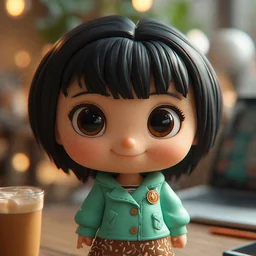
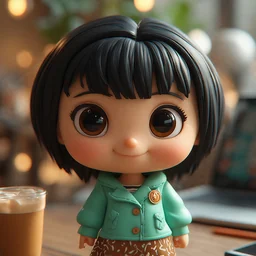
fix: kelopak kedip figur seukuran mata & warna kulit natural
Claude-Session: https://claude.ai/code/session_01GFzcKUwh4fVk21KaSCznkK

diff --git a/src/data/agents.ts b/src/data/agents.ts
@@ -21,21 +21,21 @@ export type Agent = {
 };
 
 export const agents: Agent[] = [
-  { id: "caption-writer", name: "Tara", role: "AI Caption Writer", blurb: "Caption feed yang hangat, jujur, dan sesuai voice brand Anda.", pillar: "AI Marketing", active: true, scene: { setting: "Kafe sore hari" }, ratio: 0.7122, eyes: [{ x: 31.77, y: 39.37, w: 13.4, h: 8.6, skin: "#c19068" }, { x: 70.47, y: 39.93, w: 13.4, h: 8.6, skin: "#c19068" }], sceneImage: true, sceneEyes: [{ x: 34.5, y: 44.5, w: 12.2, h: 11, skin: "#c19068" }, { x: 58.8, y: 45, w: 12.2, h: 11, skin: "#c19068" }] },
-  { id: "reel-scripter", name: "Raka", role: "AI Reel Scripter", blurb: "Naskah Reels & TikTok per detik, lengkap dengan shot list.", pillar: "AI Marketing", active: true, scene: { setting: "Teras villa tepi pantai" }, ratio: 0.5578, eyes: [{ x: 32.11, y: 34.69, w: 14.39, h: 8.32, skin: "#ae775b" }, { x: 68.71, y: 34.69, w: 14.39, h: 8.32, skin: "#ae775b" }], sceneImage: true, sceneEyes: [{ x: 41.3, y: 35.8, w: 11, h: 11.4, skin: "#ae775b" }, { x: 60.6, y: 35.8, w: 11, h: 11.4, skin: "#ae775b" }] },
-  { id: "story-writer", name: "Sekar", role: "AI Story Writer", blurb: "Set Stories 3 frame untuk promo, event, dan behind the scene.", pillar: "AI Marketing", active: true, scene: { setting: "Kamar villa Bali" }, ratio: 0.7622, eyes: [{ x: 31.2, y: 34.2, w: 10.4, h: 7.92, skin: "#b47b5a" }, { x: 57.51, y: 34.32, w: 9.02, h: 7.76, skin: "#b47b5a" }], sceneImage: true, sceneEyes: [{ x: 38, y: 36.5, w: 9.8, h: 9.8, skin: "#b47b5a" }, { x: 55.1, y: 36.6, w: 8.5, h: 9.6, skin: "#b47b5a" }] },
-  { id: "listing-writer", name: "Bayu", role: "AI OTA Listing Writer", blurb: "Deskripsi produk, marketplace, OTA & website yang akurat dan mudah ditemukan.", pillar: "AI Marketing", active: true, scene: { setting: "Teras villa & kolam" }, ratio: 0.4722, eyes: [{ x: 32.7, y: 32.57, w: 14.78, h: 6.51, skin: "#c59273" }, { x: 65.56, y: 33.02, w: 13.14, h: 6.2, skin: "#c59273" }], sceneImage: true, sceneEyes: [{ x: 44.2, y: 34.4, w: 9, h: 8.4, skin: "#c59273" }, { x: 58, y: 34.8, w: 8, h: 8, skin: "#c59273" }] },
-  { id: "review-responder", name: "Laras", role: "AI Review Responder", blurb: "Draft balasan review Google & OTA. Review negatif ke owner.", pillar: "AI Marketing", active: true, scene: { setting: "Meja resepsionis hotel" }, ratio: 0.6856, eyes: [{ x: 23.17, y: 38.87, w: 9.72, h: 6.03, skin: "#d39c78" }, { x: 49.84, y: 38.87, w: 9.25, h: 5.95, skin: "#d39c78" }], sceneImage: true, sceneEyes: [{ x: 43.6, y: 42.3, w: 8.4, h: 7.6, skin: "#d39c78" }, { x: 59.5, y: 42.3, w: 8, h: 7.5, skin: "#d39c78" }] },
-  { id: "calendar-planner", name: "Dimas", role: "AI Calendar Planner", blurb: "Kalender konten bulanan: libur nasional, Ramadan, Nyepi, musim liburan.", pillar: "AI Marketing", active: true, scene: { setting: "Meja perencanaan" }, ratio: 0.5667, eyes: [{ x: 34.61, y: 34.86, w: 15.17, h: 8.17, skin: "#d5a27e" }, { x: 68.7, y: 34.23, w: 13.65, h: 7.74, skin: "#d5a27e" }], sceneImage: true, sceneEyes: [{ x: 40, y: 39, w: 10, h: 9.5, skin: "#d5a27e" }, { x: 55.5, y: 38.5, w: 9, h: 9, skin: "#d5a27e" }] },
-  { id: "campaign-planner", name: "Ayu", role: "AI Campaign Planner", blurb: "Rencana kampanye musiman: Lebaran, Nataru, long weekend.", pillar: "AI Marketing", active: true, scene: { setting: "Ruang rapat kampanye" }, ratio: 1.0444, eyes: [{ x: 37.57, y: 27.59, w: 6.93, h: 7.24, skin: "#b68b6e" }, { x: 53.27, y: 27.59, w: 6.93, h: 7.24, skin: "#b68b6e" }], sceneImage: true, sceneEyes: [{ x: 44.5, y: 38.5, w: 8, h: 8, skin: "#b68b6e" }, { x: 57, y: 38.5, w: 8, h: 8, skin: "#b68b6e" }] },
-  { id: "localizer", name: "Nara", role: "AI Localizer", blurb: "Konten bilingual ID ⇄ EN yang terasa natural, bukan terjemahan kaku.", pillar: "AI Marketing", active: true, scene: { setting: "Lobi hotel butik" }, ratio: 0.6211, eyes: [{ x: 41.39, y: 34.1, w: 10.75, h: 5.64, skin: "#c69273" }, { x: 67.36, y: 34.1, w: 9.55, h: 5.57, skin: "#c69273" }], sceneImage: true, sceneEyes: [{ x: 43.0, y: 37.5, w: 9, h: 7.6, skin: "#c69273" }, { x: 58, y: 37.5, w: 8, h: 7.5, skin: "#c69273" }] },
-  { id: "image-creator", name: "Nova", role: "AI Image Creator", blurb: "Gambar promo, banner, dan visual feed sesuai warna merek Anda.", pillar: "AI Marketing", active: false, scene: { setting: "Studio foto" }, ratio: 0.6778, eyes: [{ x: 37.01, y: 30.47, w: 10.52, h: 6.75, skin: "#d0a282" }, { x: 64.93, y: 29.92, w: 10.4, h: 6.75, skin: "#d0a282" }], sceneImage: true, sceneEyes: [{ x: 40, y: 32, w: 9.5, h: 9, skin: "#d0a282" }, { x: 57.4, y: 31.5, w: 9.4, h: 9, skin: "#d0a282" }] },
-  { id: "video-creator", name: "Aruna", role: "AI Video Creator", blurb: "Video AI pendek untuk Reels & TikTok, siap Anda setujui.", pillar: "AI Marketing", active: false, scene: { setting: "Set syuting mini" }, ratio: 0.5356, eyes: [{ x: 34.24, y: 36.83, w: 14.24, h: 6.87, skin: "#cb8e61" }, { x: 64.17, y: 36.28, w: 13.38, h: 6.87, skin: "#cb8e61" }], sceneImage: true, sceneEyes: [{ x: 43, y: 39, w: 10, h: 9, skin: "#cb8e61" }, { x: 57.5, y: 38.5, w: 9.4, h: 9, skin: "#cb8e61" }] },
-  { id: "report-builder", name: "Intan", role: "AI Report Builder", blurb: "Laporan bulanan satu halaman, angka apa adanya dari insight platform.", pillar: "AI Business Intelligence", active: true, scene: { setting: "Meja analitik" }, ratio: 0.4256, eyes: [{ x: 32.72, y: 34.43, w: 12.6, h: 5.36, skin: "#cc9c81" }, { x: 70.22, y: 34.43, w: 13.44, h: 5.44, skin: "#cc9c81" }], sceneImage: true, sceneEyes: [{ x: 42, y: 33.5, w: 7.5, h: 7.5, skin: "#cc9c81" }, { x: 57.4, y: 33.5, w: 8, h: 7.6, skin: "#cc9c81" }] },
-  { id: "data-analyst", name: "Dara", role: "AI Data Analyst & Annotator", blurb: "Baca file penjualan, beri insight, dan labeli data dalam jumlah besar.", pillar: "AI Business Intelligence", active: false, scene: { setting: "Ruang data" }, ratio: 0.5222, eyes: [{ x: 36.49, y: 31.18, w: 13.85, h: 6.86, skin: "#cf9d87" }, { x: 68.61, y: 31.18, w: 13.15, h: 6.86, skin: "#cf9d87" }], sceneImage: true, sceneEyes: [{ x: 42, y: 32.5, w: 10, h: 9.5, skin: "#cf9d87" }, { x: 58, y: 32.5, w: 9.5, h: 9.5, skin: "#cf9d87" }] },
-  { id: "sales-assistant", name: "Galih", role: "AI Sales Assistant", blurb: "Draft balasan inquiry & penawaran untuk tim sales Anda.", pillar: "AI Sales", active: false, scene: { setting: "Front office hotel" }, ratio: 0.6478, eyes: [{ x: 30.56, y: 39.25, w: 13.31, h: 7.76, skin: "#cda684" }, { x: 68.39, y: 39.25, w: 14.11, h: 8.28, skin: "#cda684" }], sceneImage: true, sceneEyes: [{ x: 40, y: 41.5, w: 10, h: 9, skin: "#cda684" }, { x: 59.6, y: 41.5, w: 10.6, h: 9.6, skin: "#cda684" }] },
-  { id: "guest-messenger", name: "Sari", role: "AI Guest Messenger", blurb: "Pesan pra-kedatangan & after-stay yang personal untuk tamu.", pillar: "AI Sales", active: false, scene: { setting: "Meja concierge villa" }, ratio: 0.4811, eyes: [{ x: 24.92, y: 30.6, w: 14.65, h: 6.62, skin: "#c48f64" }, { x: 61.28, y: 30.6, w: 14.65, h: 6.62, skin: "#c48f64" }], sceneImage: true, sceneEyes: [{ x: 40.4, y: 38, w: 8.3, h: 7.8, skin: "#c48f64" }, { x: 54.6, y: 38, w: 8.3, h: 7.8, skin: "#c48f64" }] },
-  { id: "sop-writer", name: "Teguh", role: "AI Integration & Developer", blurb: "SOP, integrasi Google Sheets & toko online, dan landing page sederhana.", pillar: "AI Admin", active: false, scene: { setting: "Ruang operasional" }, ratio: 0.5689, eyes: [{ x: 32.13, y: 40.34, w: 13.79, h: 8.23, skin: "#dba889" }, { x: 65.59, y: 40.34, w: 13.39, h: 8.23, skin: "#dba889" }], sceneImage: true, sceneEyes: [{ x: 39.9, y: 41.1, w: 10.4, h: 10.9, skin: "#dba889" }, { x: 57.3, y: 41.1, w: 10.1, h: 10.9, skin: "#dba889" }] },
+  { id: "caption-writer", name: "Tara", role: "AI Caption Writer", blurb: "Caption feed yang hangat, jujur, dan sesuai voice brand Anda.", pillar: "AI Marketing", active: true, scene: { setting: "Kafe sore hari" }, ratio: 0.7122, eyes: [{ x: 30.81, y: 39.37, w: 19.43, h: 12.47, skin: "#c19068" }, { x: 69.51, y: 39.93, w: 19.43, h: 12.47, skin: "#c19068" }], sceneImage: true, sceneEyes: [{ x: 34.5, y: 44.5, w: 12.2, h: 11, skin: "#c19068" }, { x: 58.8, y: 45, w: 12.2, h: 11, skin: "#c19068" }] },
+  { id: "reel-scripter", name: "Raka", role: "AI Reel Scripter", blurb: "Naskah Reels & TikTok per detik, lengkap dengan shot list.", pillar: "AI Marketing", active: true, scene: { setting: "Teras villa tepi pantai" }, ratio: 0.5578, eyes: [{ x: 32.11, y: 34.69, w: 20.86, h: 12.07, skin: "#ae775b" }, { x: 68.71, y: 34.69, w: 20.86, h: 12.07, skin: "#ae775b" }], sceneImage: true, sceneEyes: [{ x: 41.3, y: 35.8, w: 11, h: 11.4, skin: "#ae775b" }, { x: 60.6, y: 35.8, w: 11, h: 11.4, skin: "#ae775b" }] },
+  { id: "story-writer", name: "Sekar", role: "AI Story Writer", blurb: "Set Stories 3 frame untuk promo, event, dan behind the scene.", pillar: "AI Marketing", active: true, scene: { setting: "Kamar villa Bali" }, ratio: 0.7622, eyes: [{ x: 31.2, y: 34.2, w: 15.08, h: 11.49, skin: "#b47b5a" }, { x: 57.51, y: 34.32, w: 13.08, h: 11.25, skin: "#b47b5a" }], sceneImage: true, sceneEyes: [{ x: 38, y: 36.5, w: 9.8, h: 9.8, skin: "#b47b5a" }, { x: 55.1, y: 36.6, w: 8.5, h: 9.6, skin: "#b47b5a" }] },
+  { id: "listing-writer", name: "Bayu", role: "AI OTA Listing Writer", blurb: "Deskripsi produk, marketplace, OTA & website yang akurat dan mudah ditemukan.", pillar: "AI Marketing", active: true, scene: { setting: "Teras villa & kolam" }, ratio: 0.4722, eyes: [{ x: 32.7, y: 32.57, w: 21.43, h: 9.44, skin: "#c59273" }, { x: 65.56, y: 33.02, w: 19.05, h: 8.99, skin: "#c59273" }], sceneImage: true, sceneEyes: [{ x: 44.2, y: 34.4, w: 9, h: 8.4, skin: "#c59273" }, { x: 58, y: 34.8, w: 8, h: 8, skin: "#c59273" }] },
+  { id: "review-responder", name: "Laras", role: "AI Review Responder", blurb: "Draft balasan review Google & OTA. Review negatif ke owner.", pillar: "AI Marketing", active: true, scene: { setting: "Meja resepsionis hotel" }, ratio: 0.6856, eyes: [{ x: 23.17, y: 38.87, w: 14.09, h: 8.74, skin: "#d39c78" }, { x: 49.84, y: 38.87, w: 13.42, h: 8.62, skin: "#d39c78" }], sceneImage: true, sceneEyes: [{ x: 43.6, y: 42.3, w: 8.4, h: 7.6, skin: "#d39c78" }, { x: 59.5, y: 42.3, w: 8, h: 7.5, skin: "#d39c78" }] },
+  { id: "calendar-planner", name: "Dimas", role: "AI Calendar Planner", blurb: "Kalender konten bulanan: libur nasional, Ramadan, Nyepi, musim liburan.", pillar: "AI Marketing", active: true, scene: { setting: "Meja perencanaan" }, ratio: 0.5667, eyes: [{ x: 34.61, y: 34.86, w: 22.0, h: 11.84, skin: "#d5a27e" }, { x: 68.7, y: 34.23, w: 19.8, h: 11.22, skin: "#d5a27e" }], sceneImage: true, sceneEyes: [{ x: 40, y: 39, w: 10, h: 9.5, skin: "#d5a27e" }, { x: 55.5, y: 38.5, w: 9, h: 9, skin: "#d5a27e" }] },
+  { id: "campaign-planner", name: "Ayu", role: "AI Campaign Planner", blurb: "Rencana kampanye musiman: Lebaran, Nataru, long weekend.", pillar: "AI Marketing", active: true, scene: { setting: "Ruang rapat kampanye" }, ratio: 1.0444, eyes: [{ x: 37.57, y: 27.59, w: 10.05, h: 10.5, skin: "#b68b6e" }, { x: 53.27, y: 27.59, w: 10.05, h: 10.5, skin: "#b68b6e" }], sceneImage: true, sceneEyes: [{ x: 44.5, y: 38.5, w: 8, h: 8, skin: "#b68b6e" }, { x: 57, y: 38.5, w: 8, h: 8, skin: "#b68b6e" }] },
+  { id: "localizer", name: "Nara", role: "AI Localizer", blurb: "Konten bilingual ID ⇄ EN yang terasa natural, bukan terjemahan kaku.", pillar: "AI Marketing", active: true, scene: { setting: "Lobi hotel butik" }, ratio: 0.6211, eyes: [{ x: 41.39, y: 34.1, w: 15.58, h: 8.18, skin: "#c69273" }, { x: 67.36, y: 34.1, w: 13.85, h: 8.07, skin: "#c69273" }], sceneImage: true, sceneEyes: [{ x: 43.0, y: 37.5, w: 9, h: 7.6, skin: "#c69273" }, { x: 58, y: 37.5, w: 8, h: 7.5, skin: "#c69273" }] },
+  { id: "image-creator", name: "Nova", role: "AI Image Creator", blurb: "Gambar promo, banner, dan visual feed sesuai warna merek Anda.", pillar: "AI Marketing", active: false, scene: { setting: "Studio foto" }, ratio: 0.6778, eyes: [{ x: 37.01, y: 30.47, w: 15.25, h: 9.79, skin: "#d0a282" }, { x: 64.93, y: 29.92, w: 15.09, h: 9.79, skin: "#d0a282" }], sceneImage: true, sceneEyes: [{ x: 40, y: 32, w: 9.5, h: 9, skin: "#d0a282" }, { x: 57.4, y: 31.5, w: 9.4, h: 9, skin: "#d0a282" }] },
+  { id: "video-creator", name: "Aruna", role: "AI Video Creator", blurb: "Video AI pendek untuk Reels & TikTok, siap Anda setujui.", pillar: "AI Marketing", active: false, scene: { setting: "Set syuting mini" }, ratio: 0.5356, eyes: [{ x: 34.24, y: 36.83, w: 20.65, h: 9.96, skin: "#cb8e61" }, { x: 64.17, y: 36.28, w: 19.41, h: 9.96, skin: "#cb8e61" }], sceneImage: true, sceneEyes: [{ x: 43, y: 39, w: 10, h: 9, skin: "#cb8e61" }, { x: 57.5, y: 38.5, w: 9.4, h: 9, skin: "#cb8e61" }] },
+  { id: "report-builder", name: "Intan", role: "AI Report Builder", blurb: "Laporan bulanan satu halaman, angka apa adanya dari insight platform.", pillar: "AI Business Intelligence", active: true, scene: { setting: "Meja analitik" }, ratio: 0.4256, eyes: [{ x: 32.72, y: 34.43, w: 18.26, h: 7.78, skin: "#cc9c81" }, { x: 70.22, y: 34.43, w: 19.48, h: 7.88, skin: "#cc9c81" }], sceneImage: true, sceneEyes: [{ x: 42, y: 33.5, w: 7.5, h: 7.5, skin: "#cc9c81" }, { x: 57.4, y: 33.5, w: 8, h: 7.6, skin: "#cc9c81" }] },
+  { id: "data-analyst", name: "Dara", role: "AI Data Analyst & Annotator", blurb: "Baca file penjualan, beri insight, dan labeli data dalam jumlah besar.", pillar: "AI Business Intelligence", active: false, scene: { setting: "Ruang data" }, ratio: 0.5222, eyes: [{ x: 36.49, y: 31.18, w: 20.08, h: 9.95, skin: "#cf9d87" }, { x: 68.61, y: 31.18, w: 19.07, h: 9.95, skin: "#cf9d87" }], sceneImage: true, sceneEyes: [{ x: 42, y: 32.5, w: 10, h: 9.5, skin: "#cf9d87" }, { x: 58, y: 32.5, w: 9.5, h: 9.5, skin: "#cf9d87" }] },
+  { id: "sales-assistant", name: "Galih", role: "AI Sales Assistant", blurb: "Draft balasan inquiry & penawaran untuk tim sales Anda.", pillar: "AI Sales", active: false, scene: { setting: "Front office hotel" }, ratio: 0.6478, eyes: [{ x: 30.56, y: 39.25, w: 19.3, h: 11.25, skin: "#cda684" }, { x: 68.39, y: 39.25, w: 20.46, h: 12.0, skin: "#cda684" }], sceneImage: true, sceneEyes: [{ x: 40, y: 41.5, w: 10, h: 9, skin: "#cda684" }, { x: 59.6, y: 41.5, w: 10.6, h: 9.6, skin: "#cda684" }] },
+  { id: "guest-messenger", name: "Sari", role: "AI Guest Messenger", blurb: "Pesan pra-kedatangan & after-stay yang personal untuk tamu.", pillar: "AI Sales", active: false, scene: { setting: "Meja concierge villa" }, ratio: 0.4811, eyes: [{ x: 24.92, y: 30.6, w: 21.25, h: 9.6, skin: "#c48f64" }, { x: 61.28, y: 30.6, w: 21.25, h: 9.6, skin: "#c48f64" }], sceneImage: true, sceneEyes: [{ x: 40.4, y: 38, w: 8.3, h: 7.8, skin: "#c48f64" }, { x: 54.6, y: 38, w: 8.3, h: 7.8, skin: "#c48f64" }] },
+  { id: "sop-writer", name: "Teguh", role: "AI Integration & Developer", blurb: "SOP, integrasi Google Sheets & toko online, dan landing page sederhana.", pillar: "AI Admin", active: false, scene: { setting: "Ruang operasional" }, ratio: 0.5689, eyes: [{ x: 32.13, y: 40.34, w: 20.0, h: 11.93, skin: "#dba889" }, { x: 65.59, y: 40.34, w: 19.42, h: 11.93, skin: "#dba889" }], sceneImage: true, sceneEyes: [{ x: 39.9, y: 41.1, w: 10.4, h: 10.9, skin: "#dba889" }, { x: 57.3, y: 41.1, w: 10.1, h: 10.9, skin: "#dba889" }] },
 ];
 
 // Awalan aset public: "/" di produksi, "./" pada build pratinjau (base relatif). Node (prerender) tidak punya import.meta.env.

diff --git a/src/components/ui/agent-figure.tsx b/src/components/ui/agent-figure.tsx
@@ -44,14 +44,14 @@ export function AgentFigure({
           <span
             key={k}
             aria-hidden
-            className="absolute animate-blink rounded-[50%] blur-[0.4px]"
+            className="absolute animate-blink rounded-[50%] blur-[0.6px]"
             style={
               {
-                left: `${e.x - (e.w * 1.45) / 2}%`,
-                top: `${e.y - (e.h * 1.45) / 2}%`,
-                width: `${e.w * 1.45}%`,
-                height: `${e.h * 1.45}%`,
-                background: `radial-gradient(ellipse at 50% 30%, color-mix(in srgb, ${e.skin} 72%, white), color-mix(in srgb, ${e.skin} 85%, white) 80%)`,
+                left: `${e.x - e.w / 2}%`,
+                top: `${e.y - e.h / 2}%`,
+                width: `${e.w}%`,
+                height: `${e.h}%`,
+                background: `radial-gradient(ellipse at 50% 35%, color-mix(in srgb, ${e.skin} 88%, white), ${e.skin} 85%)`,
                 "--blink-dur": `${blinkDur}s`,
                 "--blink-delay": `${-((i * 1.3) % blinkDur)}s`,
               } as React.CSSProperties
